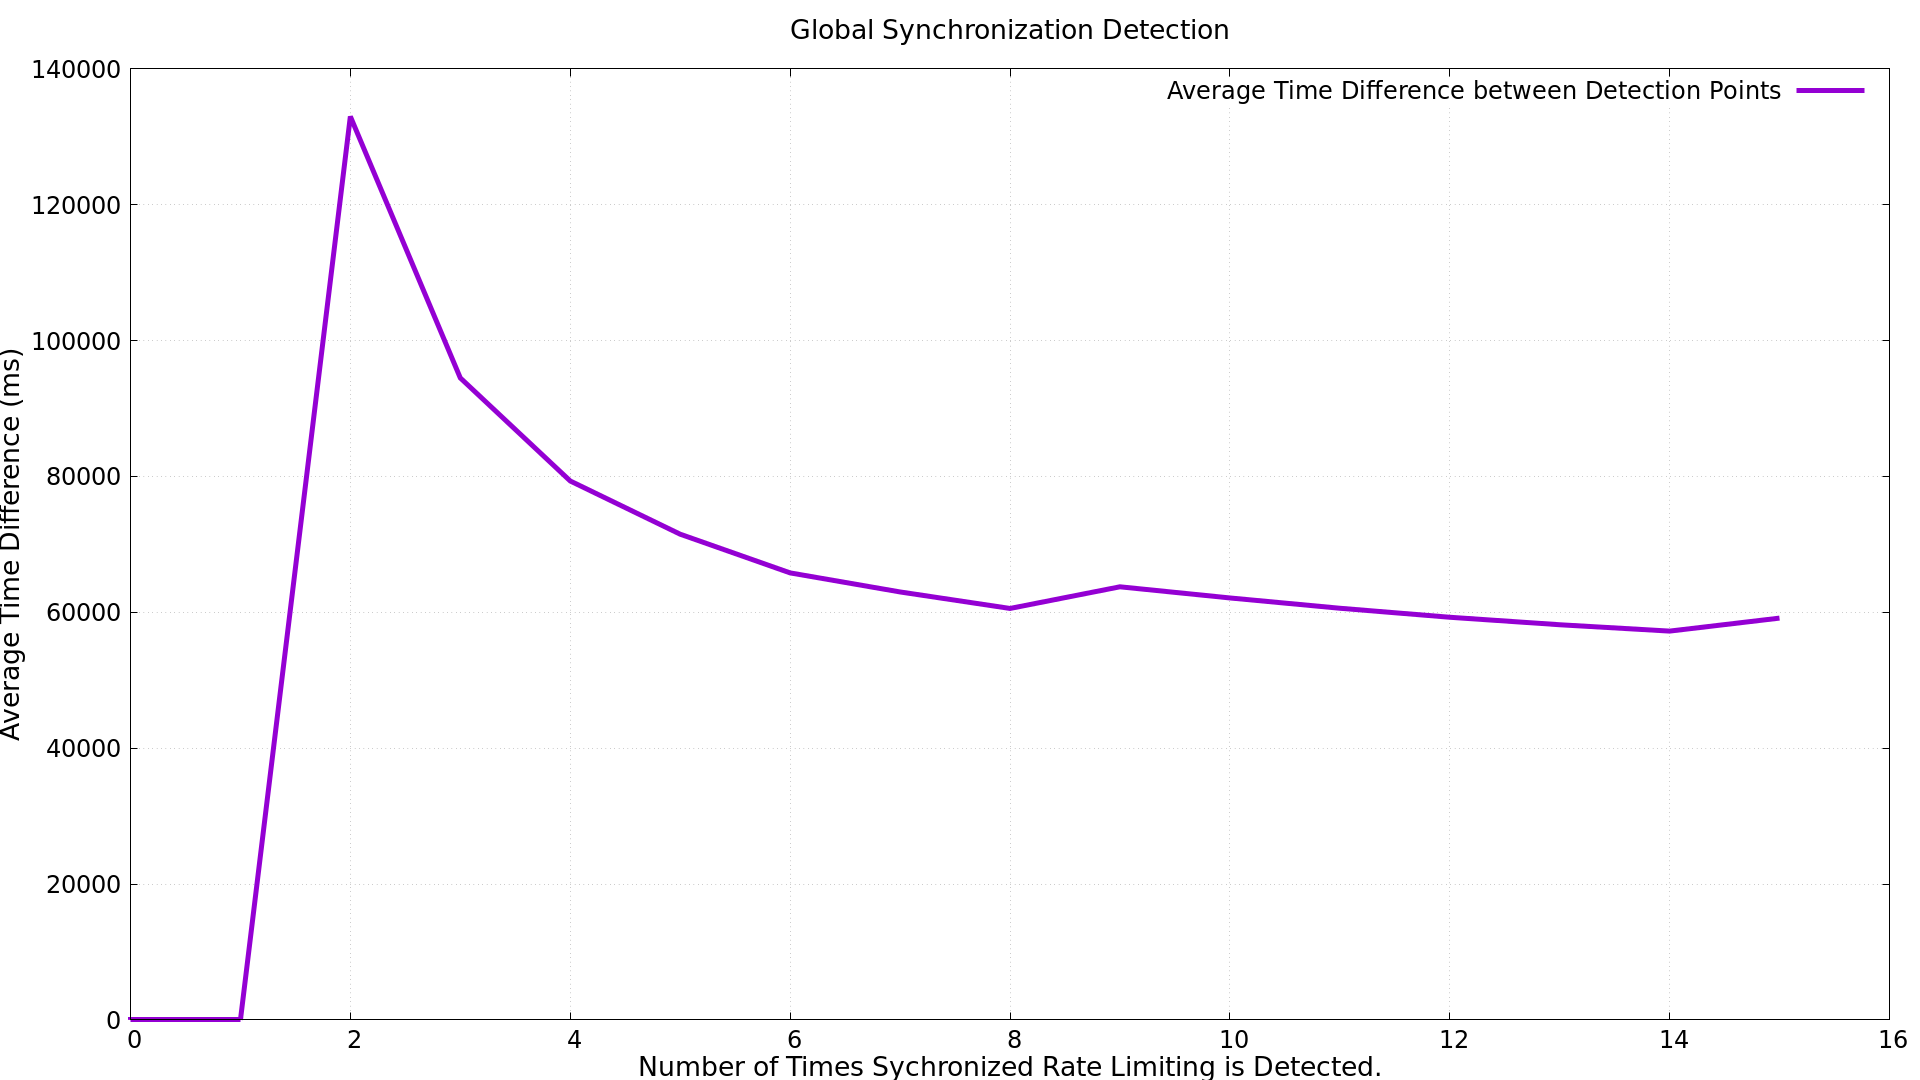
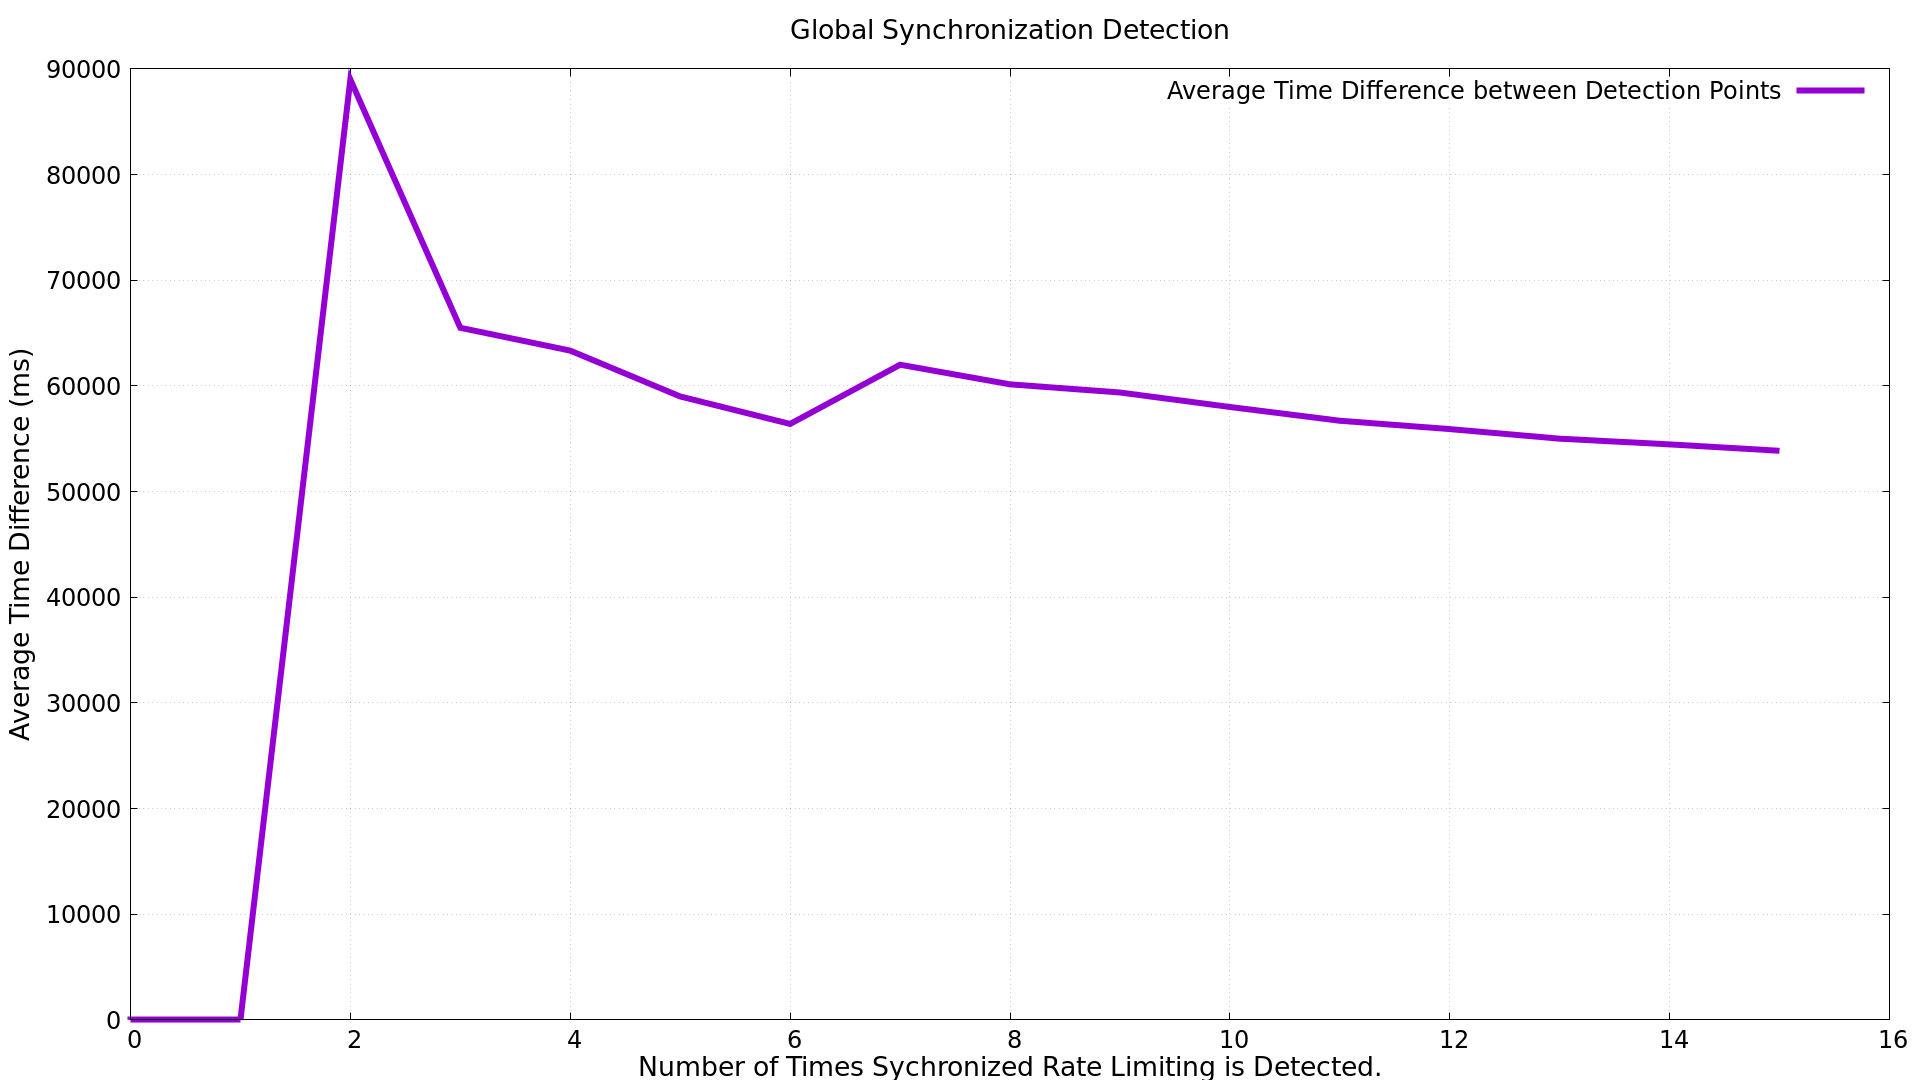
Fixing plots from bug, commenting, report

diff --git a/report.tex b/report.tex
@@ -1,5 +1,7 @@
 \documentclass{article}
 
+\newcommand{\plotsize}{0.25}
+
 %graphics
 \usepackage{graphicx}
 \graphicspath{{./images/}}
@@ -153,59 +155,63 @@ The model involves a receiver component that has \textit{n} ports which connect 
 
 \section{Result} % conclusion/summary
 
-The metric capable of detecting TCP global synchronization is to look at the time in which senders limit their transmission rates.
+The metric capable of detecting TCP global synchronization is to first look at the time in which senders limit their transmission rates. If all senders limit their transmission rates in a window of time, the time in which this behavior occurred is logged. The difference in time between these points is calculated and averaged resulting in the metric.
 
-\color{red} Average time difference between synchronization rate limits is now a metric, include graphs and edit section.
-
-\color{black}
-Global synchronization occurs when all senders limit their transmission rate at around the same time. Measuring the number of senders that limit their transmission rate in a window of time appears to be the most accurate and precise measurement for detecting global synchronization.
+%Global synchronization occurs when all senders limit their transmission rate at around the same time. Measuring the number of senders that limit their transmission rate in a window of time appears to be the most accurate and precise measurement for detecting global synchronization.
 						
-In the simulation, the receiver component measures this behavior. The receiver will monitor the sender connected to it. When a sender limits its transmission rates, the receiver will begin sampling input for a window of time. If all sender limit their transmission rates in the window, the problem's behavior is detected in the simulation. This metric is demonstrated on three simulations which simulate three different scenarios of network traffic:
+In the simulation, the receiver component measures this behavior. The receiver will monitor the senders connected to it. When a sender limits its transmission rates, the receiver will begin sampling input for a window of time. If all sender limit their transmission rates in the window, the problem's behavior is detected in the simulation. This metric is demonstrated on three simulations which simulate three different scenarios of network traffic:
 											
 The first simulation is of three senders that have a combined transmission rate that is under the receiver's \href{https://www.solarwinds.com/resources/it-glossary/network-capacity}{capacity}. The receiver's queue will not fill so packet loss will not occur, and senders will not limit their transmission rates; see Figure \ref{fig:good-rate}. In this scenario, global synchronization is not occurring so the metric will not detect this behavior in the simulation; see Figure \ref{fig:good-metric}.
 	
 \begin{figure}[H]
 	\centering
-	\includegraphics[scale=0.50]{good-rate}
-	\caption{ \color{red} CHANGE LINE TYPES Transmission rates of the three senders. Transmission rate limiting does not occur so global synchronization is not detected.}
+	\includegraphics[scale=\plotsize]{new-good-rate}
+	\caption{Transmission rates of the three senders. Transmission rate limiting does not occur so global synchronization is not detected.}
 	\label{fig:good-rate}
 \end{figure}
 
 \begin{figure}[H]
 	\centering
-	\includegraphics[scale=0.5]{good-metric}
-	\caption{Metric does not detect the existence of global synchronization in simulation one.}
+	\includegraphics[scale=\plotsize]{new-good-point}
+	\caption{Global Synchronization is not detected in simulation one.}
 	\label{fig:good-metric}
 \end{figure}
 
-The second simulation contains two senders that send packets to a receiver at a rate in which the queue does not fill up so packet loss can not occur. A third client is introduced after one hundred seconds and disrupts the network by sending packets which causes the queue to fill and packets to be dropped. All clients send packages consecutively when the packet loss occurs so they all encounter packet loss and limit their transmission rates consecutively; see Figure \ref{fig:bad-rate}. This creates the problem of global synchronization as they attempt to increase their transmission rates back over time which leads to more packet loss and rate limiting. In this scenario, global synchronization occurs and the metric detects it; see Figure \ref{fig:bad-metric}.
+The second simulation contains two senders that send packets to a receiver at a rate in which the queue does not fill up so packet loss can not occur. A third client is introduced after one hundred seconds and disrupts the network by sending packets which causes the queue to fill and packets to be dropped. All clients send packages consecutively when the packet loss occurs so they all encounter packet loss and limit their transmission rates consecutively; see Figure \ref{fig:bad-rate}. This creates the problem of global synchronization as they attempt to increase their transmission rates back over time which leads to more packet loss and rate limiting. In this scenario, global synchronization occurs and the metric detects it; see Figure \ref{fig:bad-metric}. The difference in time between each pairs of points is calculated and the average is calculated for all points in the simulation output; see Figure \ref{fig:bad-avg}.
 
 \begin{figure}[H]
 	\centering
-	\includegraphics[scale=0.5]{bad-rate}
-	\caption{ \color{red} CHANGE LINE TYPES.Transmission rates of the three senders over time.}
+	\includegraphics[scale=\plotsize]{new-bad-rate}
+	\caption{Transmission rates of the three senders over time.}
 	\label{fig:bad-rate}
 \end{figure}
 
 \begin{figure}[H]
 	\centering
-	\includegraphics[scale=0.5]{bad-metric}
+	\includegraphics[scale=\plotsize]{new-bad-point}
 	\caption{Metric detecting the existence of the problem in simulation two.}
 	\label{fig:bad-metric}
-\end{figure}	
+\end{figure}
+
+\begin{figure}[H]
+	\centering
+	\includegraphics[scale=\plotsize]{new-bad-avg}
+	\caption{Average difference in time between global synchronized rate limiting during simulation runtime.}
+	\label{fig:bad-avg}
+\end{figure}		
 
 The third simulation contains the same parameters as simulation two. However, a simple algorithm inspired by \href{https://en.wikipedia.org/wiki/Random_early_detection}{Random Early Detection} (RED) is incorporated into the simulation to prevent global synchronization from occurring. This algorithm runs every time the receiver receives a packet and works by dropping random packets after the queue size becomes greater than user-defined size. This will cause senders to limit their transmission rates early and and at random intervals; see Figure \ref{fig:rand-rate}. This is used to demonstrate the metric in an environment where global synchronization could potentially occur but does not. This is to test if the metric can produce false positives; see Figure \ref{fig:rand-metric}.
 
 \begin{figure}[H]
 	\centering
-	\includegraphics[scale=0.5]{rand-rate}
-	\caption{\color{red} CHANGE LINE TYPES Transmission rates of the three senders over time.}
+	\includegraphics[scale=\plotsize]{new-rand-rate}
+	\caption{Transmission rates of the three senders over time.}
 	\label{fig:rand-rate}
 \end{figure}
 
 \begin{figure}[H]
 	\centering
-	\includegraphics[scale=0.5]{rand-metric}
+	\includegraphics[scale=\plotsize]{new-rand-nodetect}
 	\caption{Metric does not detect global synchronization in simulation three.}
 	\label{fig:rand-metric}
 \end{figure}
@@ -214,17 +220,27 @@ Expanding the window size for sampling will cause the metric to produce false po
 
 \begin{figure}[H]
 	\centering
-	\includegraphics[scale=0.5]{falpos-rate}
-	\caption{\color{red} CHANGE LINE TYPES Simulation where all transmission rates are limited within a window of around 30 seconds}
+	\includegraphics[scale=\plotsize]{new-rand-rate}
+	\caption{Transmission rates of the three senders over time.}
 	\label{fig:falpos-rate}
-\end{figure}		
+\end{figure}
 
 \begin{figure}[H]
 	\centering
-	\includegraphics[scale=0.5]{falpos-metric}
-	\caption{A large window size (forty seconds) causes the metric to produce false-positives.}
+	\includegraphics[scale=\plotsize]{new-rand-point}
+	\caption{A large window size (forty seconds) causes false positives in detection.}
 	\label{fig:falpos-metric}
 \end{figure}
+
+Notice that taking the time difference between consecutive detection points and averaging them shows fluctuation; see Figure \ref{fig:falpos-avg}. This is useful to differentiate false positives from true positives where the average time difference is constant after the first two detections; see Figure \ref{fig:bad-avg}.
+
+\begin{figure}[H]
+	\centering
+	\includegraphics[scale=\plotsize]{new-rand-avg}
+	\caption{Average time between detection points fluctuates during a false positive.}
+	\label{fig:falpos-avg}
+\end{figure}
+
 
 The metric results from an algorithm ran during the simulation, so it can be analyzed or used during runtime. The data it produces is also output to a log file for analysis after the simulation has ended.
 
@@ -291,6 +307,20 @@ void receiver::eventHandler(SST::Event *ev) {
 		
 		// Check if all seperate senders have limited their transmission rates in the sampling window time.
 		if (senders_limited == num_nodes) {
+			// Global sychronization behavior has occured.
+			
+			// Log time sychronization was detected
+			new_globsync_time = getCurrentSimTimeMilli();
+			num_globsync++; // Increment count of detections
+			
+			// For detections after the first one, take the difference in times between detection points and average them.
+			if (num_globsync != 1) { 
+				globsync_time_diff_avg = (total_time_diff + (new_globsync_time - prev_globsync_time)) / (num_globsync - 1); 
+				total_time_diff = total_time_diff + (new_globsync_time - prev_globsync_time);
+			} 
+			
+			prev_globsync_time = new_globsync_time;
+
 			globsync_detect = 1;	// Set boolean metric to true.
 			already_sampled = true;		// End sampling early.
 			
@@ -308,11 +338,9 @@ void receiver::eventHandler(SST::Event *ev) {
 													
 \section{Future Work}
 
-Currently, the metric detects a time when the behavior for global synchronization is occurring but it may not necessarily mean the problem exist in a network. Queue dropping policies such as \href{https://en.wikipedia.org/wiki/Weighted_random_early_detection}{Weighted Random Early Detection} (WRED) or RED attempts to avoid global synchronization by randomizing when senders limit their transmission rates based on the average queue size of the receiver. However, if their is a burst of traffic in the network and the receiver's average queue size is larger than a maximum threshold, packet loss can occur for all connected senders and they will synchronously limit transmission rates. If WRED was used in a simulation, the current metric could potentially report that global synchronization is occurring but it would be in randomly spaced intervals unlike what is shown in Figure \ref{fig:bad-metric}.
+Increasing the fidelity of the simulation and comparing if the detection metric is still accurate should be tried. Examples include incorporating sliding window protocol, different queue dropping policies, and traffic prioritization.
 
-\color{red} THE IDEA BELOW IS NOW IMPLEMENTED, INCLUDE NEW GRAPHS AND CHANGE FUTURE WORK
-\color{black}
-A more accurate metric will be to keep track of the time in which the behavior is detected and subtract it with the last time the behavior was detected. This will give the interval of time between the detection of global synchronization in the network. If this is repeated and the interval of time between detection remains constant then global synchronization is occurring in the network.
+%Currently, the metric detects a time when the behavior for global synchronization is occurring but it may not necessarily mean the problem exist in a network. Queue dropping policies such as \href{https://en.wikipedia.org/wiki/Weighted_random_early_detection}{Weighted Random Early Detection} (WRED) or RED attempts to avoid global synchronization by randomizing when senders limit their transmission rates based on the average queue size of the receiver. However, if their is a burst of traffic in the network and the receiver's average queue size is larger than a maximum threshold, packet loss can occur for all connected senders and they will synchronously limit transmission rates. If WRED was used in a simulation, the current metric could potentially report that global synchronization is occurring but it would be in randomly spaced intervals unlike what is shown in Figure \ref{fig:bad-metric}.
 
 % if the above is implemented, then the problem becomes what if network traffic is too much for the receiver to handle?
 % wred and red will both have average queue size above threshold consistently which would cause global sync behavior

diff --git a/receiver.cc b/receiver.cc
@@ -53,7 +53,7 @@ receiver::receiver( SST::ComponentId_t id, SST::Params& params ) : SST::Componen
     new_globsync_time = 0;
     globsync_time_diff_avg = 0;
     total_time_diff = 0;
-    metric_middle = 0;
+    //metric_middle = 0;
 
     // Pointer to an array of port pointers.
     port = new SST::Link*[num_nodes];
@@ -152,27 +152,34 @@ void receiver::eventHandler(SST::Event *ev) {
                 if (enable_pred) {
                     count_pred++; 
 
+                    // If queue size is below minimum threshold, enqueue the packet
                     if (msgQueue.size() <= min_pred) {
                         msgQueue.push(pe->pack);
                     }
 
+                    // If queue size is above the minimum threshold...
                     if (msgQueue.size() > min_pred) {
-                        if (count_pred > 250) {
-                            //try for drop
+                        // and the receiver has received more than 250 packets since the last drop.
+                        if (count_pred > queue_size) {
+
+                            // randomize for drop
                             rand_num = (float) (rng->nextUniform());
                             if (rand_num < 0.30) {
-                                output.output(CALL_INFO, "DROPPED EARLY----------------------\n");
                                 Packet limitMsg = { LIMIT, pe->pack.id, pe->pack.node_id };
                                 port[limitMsg.node_id]->send(new PacketEvent(limitMsg));
                                 packet_loss++;
                                 count_pred = 0;
+                            } else {
+                                // enqueue
+                                msgQueue.push(pe->pack);
                             }
                         } else {
                             //just enqueue
                             msgQueue.push(pe->pack);
                         }
                     }
-
+                    
+                    // If queue is full, drop packet.
                     if (msgQueue.size() + 1 > queue_size) {
                         Packet limitMsg = { LIMIT, pe->pack.id, pe->pack.node_id };
                         port[limitMsg.node_id]->send(new PacketEvent(limitMsg));
@@ -216,16 +223,19 @@ void receiver::eventHandler(SST::Event *ev) {
                     tracked_nodes[pe->pack.node_id] = 1;
                     nodes_limited++; 
 
+                    // Check if all senders have limited their send rates in the sampling window of time.
                     if (nodes_limited == num_nodes) {
                         output.verbose(CALL_INFO, 2, 0, "Ending Sampling Early\n");
 
+                        // Global synchronized rate limiting detected.
                         new_globsync_time = getCurrentSimTimeMilli();
                         num_globsync++;
                         if (num_globsync != 1) { 
                             globsync_time_diff_avg = (total_time_diff + (new_globsync_time - prev_globsync_time)) / (num_globsync - 1); 
                             total_time_diff = total_time_diff + (new_globsync_time - prev_globsync_time);
-                            metric_middle = (new_globsync_time - prev_globsync_time) - globsync_time_diff_avg;
+                            //metric_middle = (new_globsync_time - prev_globsync_time) - globsync_time_diff_avg;
                         } 
+                        
                         prev_globsync_time = new_globsync_time;
                         globsync_detect = 1; 
                         already_sampled = true; 

diff --git a/sender.cc b/sender.cc
@@ -91,7 +91,7 @@ void sender::eventHandler(SST::Event *ev) {
 
                 curr_send_rate = min_send_rate; // Limit transmission rate
                 
-                port->send(new PacketEvent(pe->pack));
+                port->send(new PacketEvent(pe->pack)); // Let receiver know that sending rate has been limited.
         }
     }
     delete ev; // Delete event to avoid memory leaks.
@@ -102,6 +102,9 @@ void sender::sendPacket(int id, int delay) {
     PacketType type = PACKET;
     Packet packet = { type, id, node_id};
 
-    // <<< COMMENTING >>>
+    // Sends packet at a offset of delay * delay_tc where delay is an integer 
+    // and delay_tc is UnitAlgebra (i.e. 1ms). This delays packets being sent
+    // so the receiver will receive one packet from each sender before receiving
+    // the next set of packets.
     port->send(delay, delay_tc, new PacketEvent(packet));
 }

diff --git a/tests/tcpGlobSync.py b/tests/tcpGlobSync.py
@@ -58,10 +58,10 @@ receiver.addParams(
         "queue_size": "200",  # size of queue.
         "verbose_level": "1",  # level of console verbosity.
         "num_nodes": "3",  # number of nodes that will connect to receiver.
-        "window_size": "100",  # window size (in sim time) for global sync detection.
+        "window_size": "40000",  # window size (in sim time) for global sync detection.
         # Appears to be that 1000 cycles in sim time is 10 seconds if component tick frequency is 1s
-        "run_time": "300",  # Number of cycles the simulation will run.
-        "enable_pred": "0",  # enable psuedo-red dropping policy to prevent sychronization from occuring.
+        "run_time": "1000",  # Number of cycles the simulation will run.
+        "enable_pred": "1",  # enable psuedo-red dropping policy to prevent sychronization from occuring.
     }
 )
 

diff --git a/receiver.h b/receiver.h
@@ -120,7 +120,7 @@ private:
     float new_globsync_time;        //!< The latest time synchronized rate limited has occured.
     float globsync_time_diff_avg;   //!< The different in time between the latest and previous time sychronized rate limiting has occured.
     int total_time_diff;            //!< Sum of every 
-    float metric_middle;
+    //float metric_middle;
     
     bool enable_pred;   //!< Enable psuedo-red algorithm to prevent global synchronization from occurring.
     float min_pred;     //!< Minimum threshold for pseudo-red algorithm.

diff --git a/sender.h b/sender.h
@@ -36,6 +36,11 @@ public:
      */
     bool tick ( SST::Cycle_t currentCycle );
 
+    /**
+     * @brief This is a required dummy function that ticks at what delay_clock is set to. This is necessary for delay_tc to function correctly when setting the delay inbetween packets being sent out.
+     * 
+     * @param currentCycle Current cycle of the component.
+     */
     bool dummy ( SST::Cycle_t currentCycle );
 
     /**
